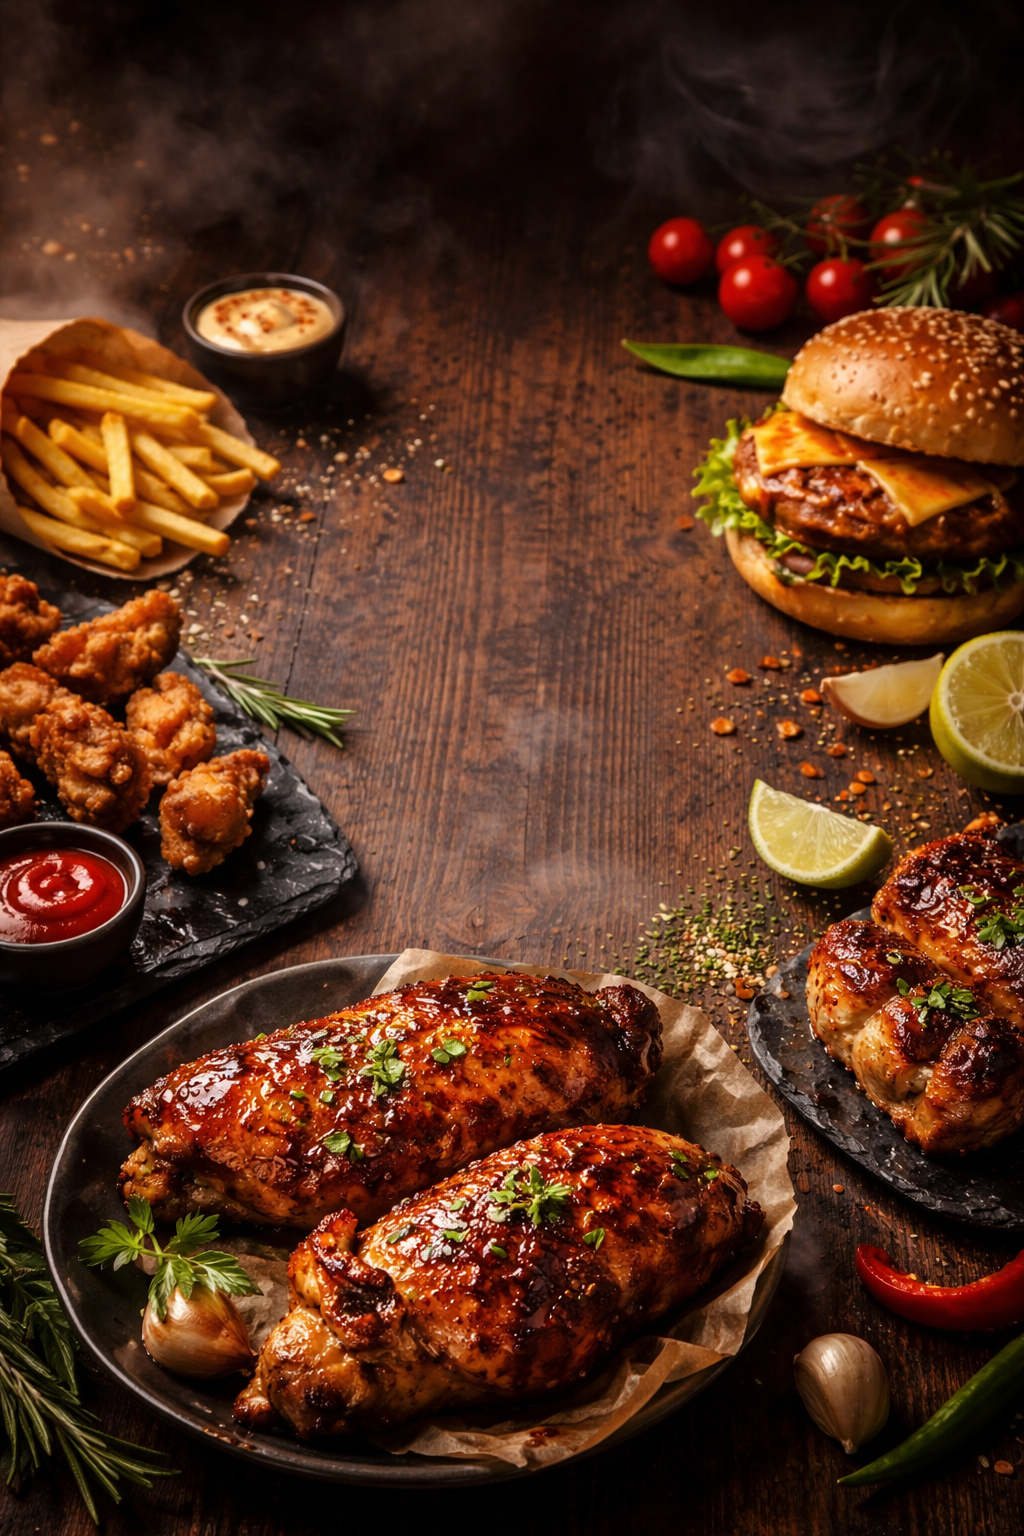
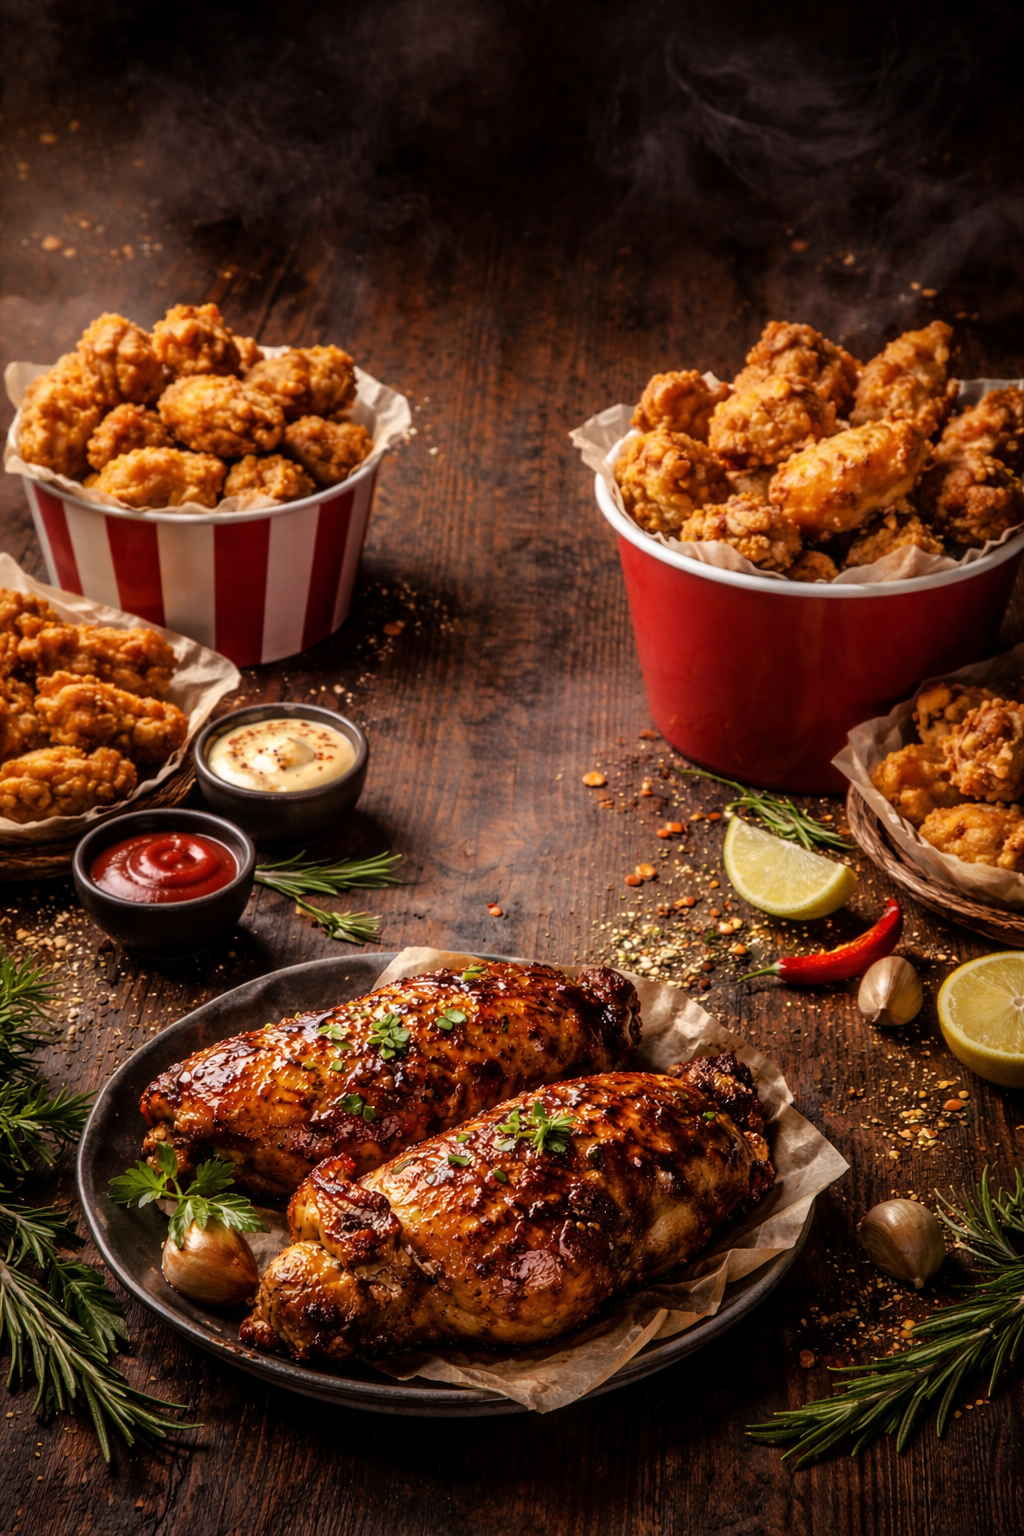
Plataforma finalizada

diff --git a/src/context/CartContext.jsx b/src/context/CartContext.jsx
@@ -1,11 +1,11 @@
-import { createContext, useContext, useState } from "react";
+import { createContext, useState } from "react";
 
-const CartContext = createContext();
+export const CartContext = createContext();
 
-export const useCart = () => useContext(CartContext);
 
 export const CartProvider = ({ children }) => {
   const [cart, setCart] = useState({});
+  const [sauces, setSauces] = useState({});
 
   const addItem = (product) => {
     setCart(prev => ({
@@ -45,8 +45,74 @@ export const CartProvider = ({ children }) => {
     );
   };
 
+ const addSauce = (sauceId) => {
+    setSauces(prev => ({
+      ...prev,
+      [sauceId]: (prev[sauceId] || 0) + 1
+    }));
+  };
+
+  const removeSauce = (sauceId) => {
+    setSauces(prev => {
+      const current = prev[sauceId] || 0;
+      if (current <= 1) {
+        const copy = { ...prev };
+        delete copy[sauceId];
+        return copy;
+      }
+
+      return {
+        ...prev,
+        [sauceId]: current - 1
+      };
+    });
+  };
+
+  const getTotalSauces = () => {
+    return Object.values(sauces).reduce((acc, qty) => acc + qty, 0);
+  };
+
+  // ------------------------
+  // 🧠 LÓGICA DE NEGOCIO
+  // ------------------------
+
+  const getFreeSauces = () => {
+    return Object.values(cart).reduce(
+      (acc, item) => acc + (item.freeSauces || 0) * item.quantity,
+      0
+    );
+  };
+
+  const getPaidSauces = () => {
+    return Math.max(0, getTotalSauces() - getFreeSauces());
+  };
+
+  const getSauceCost = () => {
+    return getPaidSauces() * 1500;
+  };
+
+  const getFinalTotal = () => {
+    return getTotal() + getSauceCost();
+  };
+
+  // ------------------------
+
   return (
-    <CartContext.Provider value={{ cart, addItem, removeItem, getTotal }}>
+    <CartContext.Provider
+      value={{
+        cart,
+        sauces,
+        addItem,
+        removeItem,
+        addSauce,
+        removeSauce,
+        getTotal,
+        getFinalTotal,
+        getFreeSauces,
+        getPaidSauces,
+        getTotalSauces
+      }}
+    >
       {children}
     </CartContext.Provider>
   );

diff --git a/src/pages/Home.jsx b/src/pages/Home.jsx
@@ -2,12 +2,14 @@ import { useState } from "react";
 import { products } from "../data/products";
 import ProductCard from "../components/ProductCard";
 import Cart from "../components/Cart";
-import { useCart } from "../context/CartContext";
+import { useCart } from "../context/useCart";
 import logo from '../assets/logo.png';
-
+import SauceSelector from "../components/SauceSelector";
 
 export default function Home() {
   const { cart } = useCart();
+  const { getFinalTotal } = useCart();
+
   const [address, setAddress] = useState("");
 
   const total = Object.values(cart).reduce(
@@ -21,7 +23,7 @@ export default function Home() {
     Object.values(cart).forEach((item) => {
       message += `- ${item.name} x${item.quantity}\n`;
     });
-
+    message += `\nTotal: $${getFinalTotal()}`;
     message += `\n📍 Dirección: ${address}`;
 
     return encodeURIComponent(message);
@@ -59,6 +61,7 @@ export default function Home() {
 
       {/* CARRITO */}
       <Cart />
+      <SauceSelector />
 
       {/* DIRECCIÓN */}
       <div className="address">
@@ -74,7 +77,7 @@ export default function Home() {
       {/* BOTÓN FINAL */}
       <button className="floating-button" onClick={handleSendOrder}>
         {total > 0
-          ? `Pedir por WhatsApp ($${total})`
+          ? `Pedir por WhatsApp ($${getFinalTotal()})`
           : "Agregá productos para pedir"}
       </button>
     </div>

diff --git a/src/components/SauceSelector.jsx b/src/components/SauceSelector.jsx
@@ -1,0 +1,52 @@
+import "./SauceSelector.css";
+import { sauces } from "../data/sauces";
+import { useCart } from "../context/useCart";
+
+export default function SauceSelector() {
+  const {
+    sauces: selectedSauces,
+    addSauce,
+    removeSauce,
+    getFreeSauces,
+    getTotalSauces,
+    getPaidSauces,
+  } = useCart();
+
+  const free = getFreeSauces();
+  const total = getTotalSauces();
+  const paid = getPaidSauces();
+
+  return (
+    <div className="sauces">
+      <h2>Salsas</h2>
+
+      <p className="sauces-info">
+        {total === 0
+          ? `Tenés ${free} salsas gratis`
+          : `Elegiste ${total} (${free} gratis)`}
+      </p>
+
+      {paid > 0 && (
+        <p className="sauces-warning">
+          {paid} extra (+${paid * 1500})
+        </p>
+      )}
+
+      {sauces.map((sauce) => {
+        const quantity = selectedSauces[sauce.id] || 0;
+
+        return (
+          <div key={sauce.id} className="sauce-item">
+            <span>{sauce.name}</span>
+
+            <div className="quantity">
+              <button onClick={() => removeSauce(sauce.id)}>-</button>
+              <span>{quantity}</span>
+              <button onClick={() => addSauce(sauce.id)}>+</button>
+            </div>
+          </div>
+        );
+      })}
+    </div>
+  );
+}

diff --git a/src/components/Cart.jsx b/src/components/Cart.jsx
@@ -1,23 +1,25 @@
 import "./Cart.css";
-import { useCart } from "../context/CartContext";
+import { useCart } from "../context/useCart";
 
 export default function Cart() {
-  const { cart, getTotal } = useCart();
-
+  const { cart, getFinalTotal, getFreeSauces, getPaidSauces } = useCart();
   return (
     <div className="cart">
       <h2>Tu pedido</h2>
 
-      {Object.values(cart).map(item => (
+      {Object.values(cart).map((item) => (
         <div key={item.id} className="cart-item">
-          <span>{item.name} x{item.quantity}</span>
+          <span>
+            {item.name} x{item.quantity}
+          </span>
           <span>${item.price * item.quantity}</span>
         </div>
       ))}
 
-      <div className="total">
-        Total: ${getTotal()}
-      </div>
+      <p>Salsas gratis: {getFreeSauces()}</p>
+      <p>Salsas extra: {getPaidSauces()}</p>
+
+      <div className="total">Total: ${getFinalTotal()}</div>
     </div>
   );
 }

diff --git a/src/data/products.js b/src/data/products.js
@@ -3,12 +3,43 @@ export const products = [
     id: 1,
     name: "Balde Chico",
     price: 18000,
-    image: "/balde-chico.jpeg"
+    image: "/balde-chico.jpeg",
+    freeSauces: 1
   },
   {
     id: 2,
     name: "Balde Grande",
     price: 30000,
-    image: "/balde-grande.png"
+    image: "/balde-grande.png",
+    freeSauces: 2
+  },
+  {
+    id: 3,
+    name: "Combo Chico",
+    price: 24000,
+    image: "/combo-chico.png",
+    freeSauces: 2
+  },
+  {
+    id: 4,
+    name: "Combo Grande",
+    price: 35000,
+    image: "/combo-grande.png",
+    freeSauces: 3
+  },
+  {
+    id: 5,
+    name: "Papas Fritas",
+    price: 4000,
+    image: "/fritas.png",
+    freeSauces: 0
+  },
+  {
+    id: 6,
+    name: "Box Fritas Grande",
+    price: 10000,
+    image: "/box-fritas.png",
+    freeSauces: 0
   }
+
 ];

diff --git a/src/components/SauceSelector.css b/src/components/SauceSelector.css
@@ -1,0 +1,39 @@
+.sauces {
+  margin-top: 20px;
+  background: rgba(28,28,28,0.9);
+  padding: 12px;
+  border-radius: 16px;
+  backdrop-filter: blur(6px);
+}
+
+.sauces-info {
+  color: #25D366;
+  font-size: 14px;
+}
+
+.sauces-warning {
+  color: orange;
+  font-size: 14px;
+}
+
+.sauce-item {
+  display: flex;
+  justify-content: space-between;
+  align-items: center;
+  margin-top: 10px;
+}
+
+.quantity {
+  display: flex;
+  align-items: center;
+  gap: 10px;
+}
+
+.quantity button {
+  width: 32px;
+  height: 32px;
+  border-radius: 10px;
+  border: none;
+  background: orange;
+  font-weight: bold;
+}

diff --git a/src/utils/calcSauces.js b/src/utils/calcSauces.js
@@ -1,0 +1,17 @@
+export const calculateSauces = (cart, saucesSelected) => {
+  let freeSauces = 0;
+
+  Object.values(cart).forEach(item => {
+    freeSauces += (item.freeSauces || 0) * item.quantity;
+  });
+
+  const totalSauces = saucesSelected;
+
+  const paidSauces = Math.max(0, totalSauces - freeSauces);
+
+  return {
+    freeSauces,
+    paidSauces,
+    extraCost: paidSauces * 1500
+  };
+};

diff --git a/src/components/QuantityControl.jsx b/src/components/QuantityControl.jsx
@@ -1,5 +1,5 @@
 import "./QuantityControl.css";
-import { useCart } from "../context/CartContext";
+import { useCart } from "../context/useCart";
 
 export default function QuantityControl({ product }) {
   const { cart, addItem, removeItem } = useCart();

diff --git a/src/data/sauces.js b/src/data/sauces.js
@@ -1,0 +1,6 @@
+export const sauces = [
+  { id: "101", name: "BBQ", price: 1500 },
+  { id: "102", name: "Alioli", price: 1500 },
+  { id: "103", name: "Moztaza y Miel", price: 1500 },
+  { id: "104", name: "Picante", price: 1500 },
+];

diff --git a/src/components/ProductCard.css b/src/components/ProductCard.css
@@ -1,9 +1,9 @@
 .card {
-  background: #1c1c1c;
+  background: #1c1c1ca4;
   border-radius: 16px;
   padding: 12px;
   display: flex;
-  gap: 12px;
+  gap: 35px;
   align-items: center;
   box-shadow: 0 4px 10px rgba(0,0,0,0.3);
 }

diff --git a/src/context/useCart.js b/src/context/useCart.js
@@ -1,0 +1,4 @@
+import { useContext } from "react";
+import { CartContext } from "./CartContext";
+
+export const useCart = () => useContext(CartContext);

diff --git a/src/styles/global.css b/src/styles/global.css
@@ -60,3 +60,8 @@ input {
 
   box-shadow: 0 5px 20px rgba(0,0,0,0.4);
 }
+.products {
+  display: flex;
+  flex-direction: column;
+  gap: 16px;
+}
